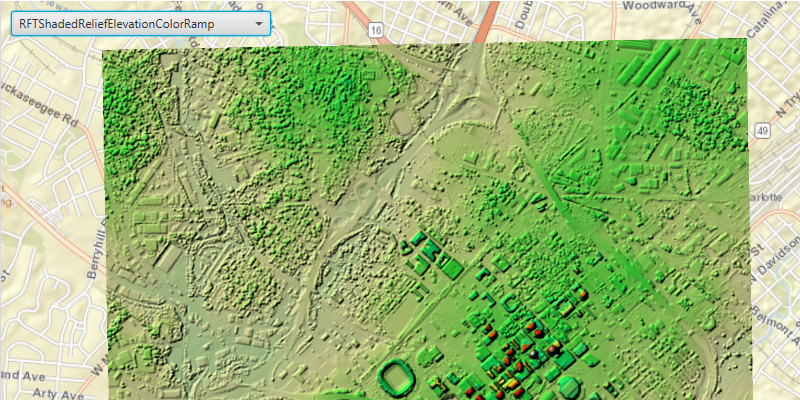
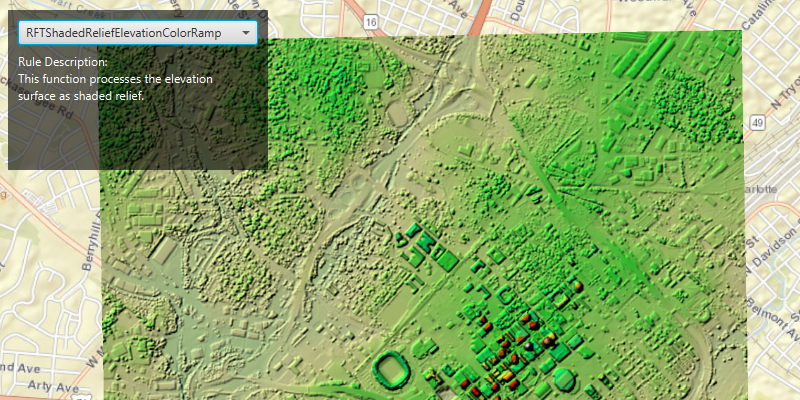
add newline to label, update screenshot

diff --git a/src/main/java/com/esri/samples/raster/raster_rendering_rule/RasterRenderingRuleSample.java b/src/main/java/com/esri/samples/raster/raster_rendering_rule/RasterRenderingRuleSample.java
@@ -70,7 +70,7 @@ public class RasterRenderingRuleSample extends Application {
             controlsVBox.setBackground(new Background(new BackgroundFill(Paint.valueOf("rgba(0,0,0,0.6)"), CornerRadii.EMPTY, Insets.EMPTY)));
             controlsVBox.setPadding(new Insets(10.0));
             controlsVBox.setSpacing(8);
-            controlsVBox.setMaxSize(260, 150);
+            controlsVBox.setMaxSize(260, 160);
             controlsVBox.getStyleClass().add("panel-region");
 
             // create drop down menu of Rendering Rules
@@ -136,7 +136,7 @@ public class RasterRenderingRuleSample extends Application {
 
                         // change the label text to the rendering rule info description
                         String renderingRuleInfoDescription = selectedRenderingRuleInfo.getDescription();
-                        renderingRuleInfoLabel.setText("Rule Description: " + renderingRuleInfoDescription);
+                        renderingRuleInfoLabel.setText("Rule Description: \n" + renderingRuleInfoDescription);
 
                         // clear all rasters
                         map.getOperationalLayers().clear();
